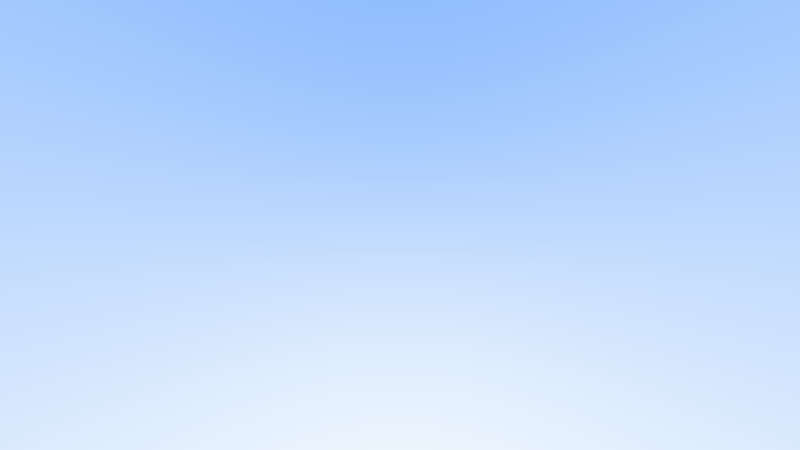
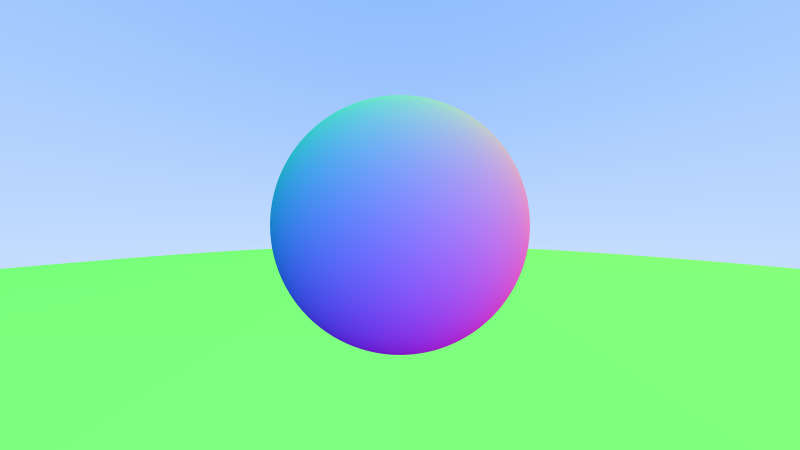
Ray Tracer Book1 up to Image6

diff --git a/RayTracer/src/modules/camera.rs b/RayTracer/src/modules/camera.rs
@@ -11,21 +11,25 @@ use image::{ImageBuffer, RgbImage};
 use indicatif::{ProgressBar, ProgressStyle};
 
 pub struct Camera {
-  pub aspect_ratio: f64,
+  pub aspect_ratio: f64, // Ratio of image width over height
   pub image_width: usize,
+  pub sample_per_pixel: usize, // Count of random samples for each pixel
   image_height: usize,
-  center: Point3,
-  pixel00_loc: Point3,
-  pixel_delta_u: Vec3,
-  pixel_delta_v: Vec3,
+  pixel_samples_scale: f64, // Color scale factor for a sum of pixel samples
+  center: Point3, 
+  pixel00_loc: Point3, // Location of pixel 0, 0
+  pixel_delta_u: Vec3, // Offset to pixel to the right
+  pixel_delta_v: Vec3, // Offset to pixel below
 }
 
 impl Camera {
-  pub fn new(aspect_ratio: f64, image_width: usize) -> Self {
+  pub fn new(aspect_ratio: f64, image_width: usize, sample_per_pixel: usize) -> Self {
     let mut cam = Camera {
       aspect_ratio,
       image_width,
+      sample_per_pixel,
       image_height: 0 as usize,
+      pixel_samples_scale: 0 as f64,
       center: Point3::zero(),
       pixel00_loc: Point3::zero(),
       pixel_delta_u: Vec3::zero(),
@@ -44,16 +48,15 @@ impl Camera {
 
     for j in 0..self.image_height {
       for i in 0..self.image_width {
-
-          let pixel_center = self.pixel00_loc + (self.pixel_delta_u * i as f64) + (self.pixel_delta_v * j as f64);
-          let ray_direction = pixel_center - self.center;
-          // println!("at [{}, {}] is [{} {} {}]", i, j, ray_direction.x, ray_direction.y, ray_direction.z);
-          let ray = Ray::new(self.center, ray_direction);
-          let pixel_color = self.ray_color(&ray, &world);
-
-          write_color_01(pixel_color, &mut img, i as usize, j as usize);
-
-          bar.inc(1);
+        let mut pixel_color = ColorType::zero();
+        for _ in 0..self.sample_per_pixel {
+          let ray = self.get_ray(i, j);
+          pixel_color += self.ray_color(&ray, &world);
+        }
+        pixel_color *= self.pixel_samples_scale;
+        write_color_01(pixel_color, &mut img, i as usize, j as usize);
+        
+        bar.inc(1);
       }
     }
     bar.finish();
@@ -65,6 +68,7 @@ impl Camera {
   fn initialize(&mut self) {
      // Camera
     self.image_height = (self.image_width as f64 / self.aspect_ratio) as usize;
+    self.pixel_samples_scale = 1.0 / self.sample_per_pixel as f64;
     
     let focal_length = 1.0;
     let viewport_height = 2.0;
@@ -93,6 +97,21 @@ impl Camera {
       looking into -z
     */
 
+  }
+
+  // Return a ray pointing from camera to pixel (i, j) where exact coordinates is randomly sampled.
+  fn get_ray(&self, i: usize, j: usize) -> Ray {
+    let offset = Self::sample_square();
+    let pixel_sample_coord = self.pixel00_loc + 
+      (i as f64 + offset.x) * self.pixel_delta_u + 
+      (j as f64 + offset.y) * self.pixel_delta_v;
+    Ray::new(self.center, pixel_sample_coord- self.center) 
+  }
+ 
+  // Return a random ([-0.5, 0.5], [-0.5, 0.5], 0) Vec3
+  fn sample_square() -> Vec3 {
+    static deviation: f64 = 0.5;
+    Vec3::new(rand_range(-deviation, deviation), rand_range(-deviation, deviation), 0.0)
   }
 
   fn ray_color(&self, ray: &Ray, world: &Object) -> ColorType {

diff --git a/RayTracer/src/modules/color.rs b/RayTracer/src/modules/color.rs
@@ -1,6 +1,7 @@
 use super::vec3::{*};
 use super::ray::{*};
 use super::hittable::{*};
+use super::interval::{*};
 
 use image::RgbImage;
 
@@ -16,7 +17,9 @@ pub fn write_color_256(pixel_color: [u8; 3], img: &mut RgbImage, i: usize, j: us
 }
 
 pub fn convert_ColorType_to_u8Array(pixel_color: ColorType) -> [u8; 3] {
-    [(pixel_color.x * 255.999) as u8, (pixel_color.y * 255.999) as u8, (pixel_color.z * 255.999) as u8]
+    let intensity: Interval = Interval::new(0.0, 1.0 - 1e-4);
+    let (x, y, z) = (intensity.clamp(pixel_color.x), intensity.clamp(pixel_color.y), intensity.clamp(pixel_color.z));
+    [(x * 256.0) as u8, (y * 256.0) as u8, (z * 256.0) as u8]
 }
 
 pub fn write_color_01(pixel_color: ColorType, img: &mut RgbImage, i: usize, j: usize) {

diff --git a/RayTracer/src/modules/utility.rs b/RayTracer/src/modules/utility.rs
@@ -4,9 +4,21 @@ use indicatif::{ProgressBar, ProgressStyle};
 use std::fs::File;
 use std::env;
 use std::io;
+use rand::Rng;
 
 pub fn degrees_to_radians(degrees: f64) -> f64 {
   degrees * PI / 180.0
+}
+
+pub fn rand_01() -> f64{
+    let mut rng = rand::thread_rng();
+    rng.gen_range(0.0..1.0)
+}
+
+// [min, max)
+pub fn rand_range(min: f64, max: f64) -> f64{
+    let mut rng = rand::thread_rng();
+    rng.gen_range(min..max)
 }
 
 pub fn is_ci() -> bool {

diff --git a/RayTracer/src/modules/interval.rs b/RayTracer/src/modules/interval.rs
@@ -29,8 +29,18 @@ impl Interval {
   }
 
   // in (min, max) (open)
-  pub fn surrends(&self, x : f64) -> bool {
+  pub fn surrounds(&self, x : f64) -> bool {
     self.min < x && x < self.max
+  }
+
+  pub fn clamp(&self, x : f64) -> f64 {
+    if x < self.min {
+      self.min
+    } else if x > self.max {
+      self.max
+    } else {
+      x
+    }
   }
 }
 

diff --git a/RayTracer/src/modules/sphere.rs b/RayTracer/src/modules/sphere.rs
@@ -32,9 +32,9 @@ impl Hittable for Sphere {
       } else {
         let sqrtd = discriminant.sqrt();
         root = (h - sqrtd) / a;
-        if !ray_t.surrends(root) {
+        if !ray_t.surrounds(root) {
           root = (h + sqrtd) / a;
-          ray_t.surrends(root)
+          ray_t.surrounds(root)
         } else {
           true
         }

diff --git a/RayTracer/src/main.rs b/RayTracer/src/main.rs
@@ -66,7 +66,7 @@ fn main() {
     
     let aspect_ratio = 16.0 / 9.0;
     let image_width = 800 as usize;
-    let cam: Camera = Camera::new(aspect_ratio, image_width);
+    let cam: Camera = Camera::new(aspect_ratio, image_width, 100);
 
 
     let mut world = HittableList::default();
